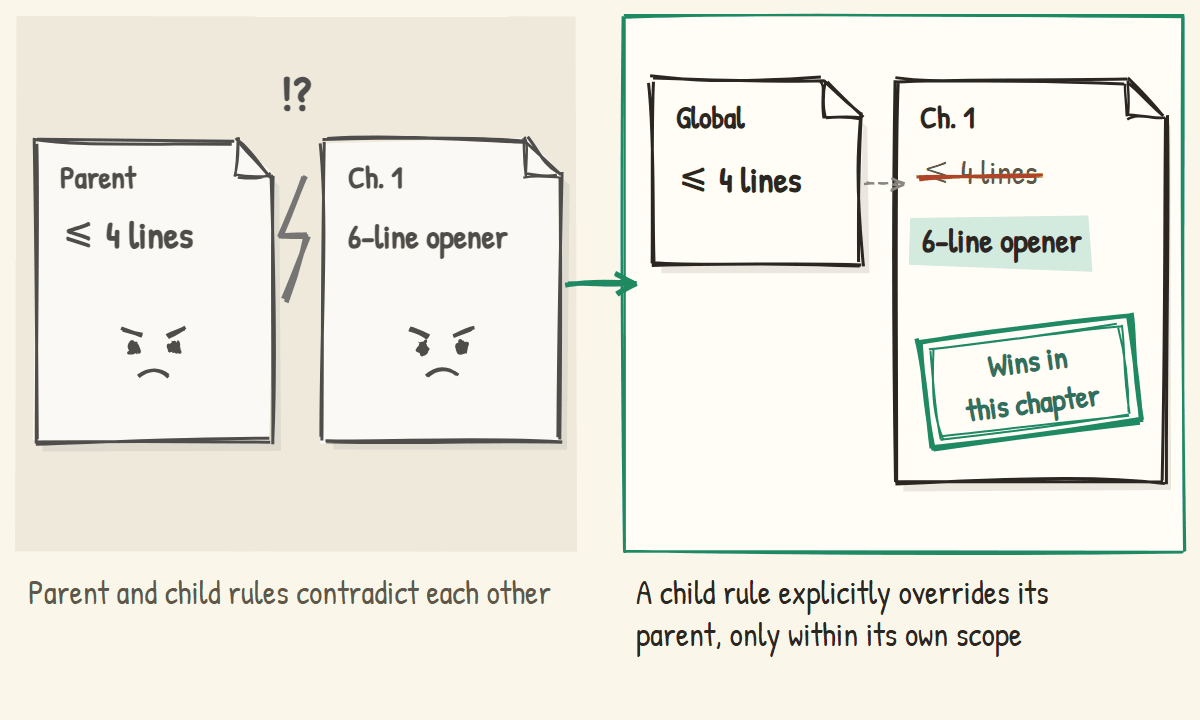
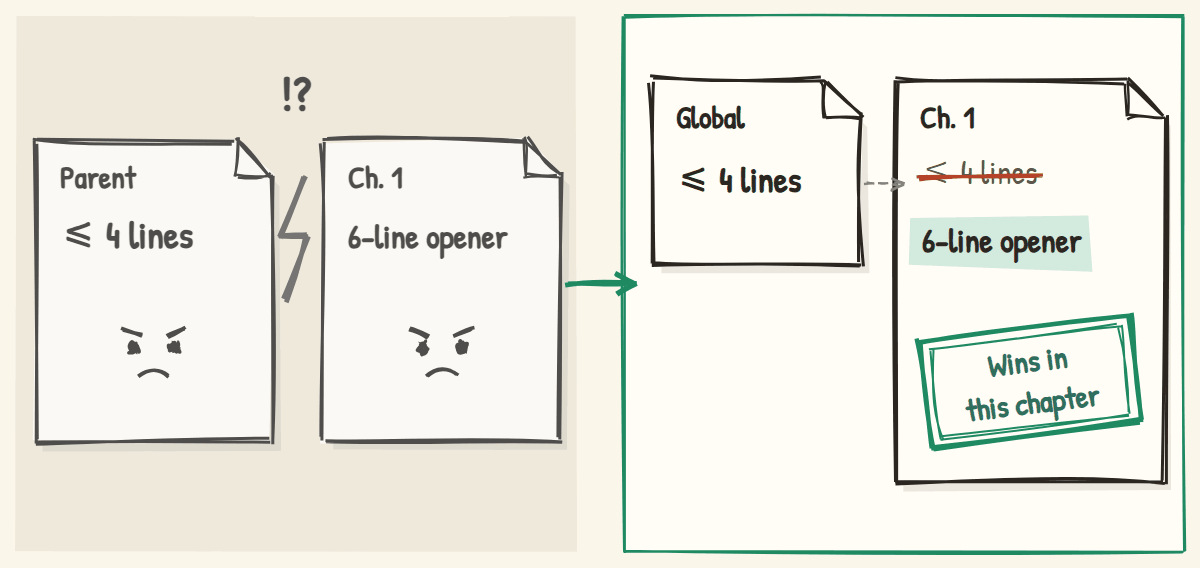
对比图去掉图内小字，说明改成 README 正文放在图下

diff --git a/README.en.md b/README.en.md
@@ -24,24 +24,22 @@ The author audited their own course project after a few months of work: 21 rule 
 
 ## What it does for you
 
-Each picture: the problem on the left, how ReqTree solves it on the right.
-
 <table>
 <tr>
-<td width="50%"><img src="docs/images/en/use-1-change-tracking.png" alt="Requirements changed so often you lost track → see the whole picture, every change logged and undoable"></td>
-<td width="50%"><img src="docs/images/en/use-2-one-place.png" alt="Rules scattered in four places → each rule has one place"></td>
+<td width="50%" valign="top"><img src="docs/images/en/use-1-change-tracking.png" alt="Requirements changed so often — what does the project look like now? → One tree shows it all: how far each part is, which rules are current; every change is logged and undoable"><br><sub>Problem</sub><br>Requirements changed so often — what does the project look like now?<br><sub>ReqTree</sub><br><b>One tree shows it all: how far each part is, which rules are current; every change is logged and undoable</b></td>
+<td width="50%" valign="top"><img src="docs/images/en/use-2-one-place.png" alt="The same rule lives in four places. Which one counts? → Every rule lives in one file, in exactly one place"><br><sub>Problem</sub><br>The same rule lives in four places. Which one counts?<br><sub>ReqTree</sub><br><b>Every rule lives in one file, in exactly one place</b></td>
 </tr>
 <tr>
-<td width="50%"><img src="docs/images/en/use-3-rewrite-not-append.png" alt="Similar rules pile up → the recorder rewrites the original"></td>
-<td width="50%"><img src="docs/images/en/use-4-survive-compaction.png" alt="Compaction makes the AI forget → native rules survive it"></td>
+<td width="50%" valign="top"><img src="docs/images/en/use-3-rewrite-not-append.png" alt="The same rule gets added again and again → The recorder rewrites the original instead of adding; undo in one click"><br><sub>Problem</sub><br>The same rule gets added again and again<br><sub>ReqTree</sub><br><b>The recorder rewrites the original instead of adding; undo in one click</b></td>
+<td width="50%" valign="top"><img src="docs/images/en/use-4-survive-compaction.png" alt="Long chats and compaction make the AI forget the rules → Rules use Claude Code's native mechanism and survive compaction and subagents"><br><sub>Problem</sub><br>Long chats and compaction make the AI forget the rules<br><sub>ReqTree</sub><br><b>Rules use Claude Code's native mechanism and survive compaction and subagents</b></td>
 </tr>
 <tr>
-<td width="50%"><img src="docs/images/en/use-5-load-on-demand.png" alt="Every rule stuffed into context → only the rules for the file being edited"></td>
-<td width="50%"><img src="docs/images/en/use-6-override.png" alt="Parent and child rules conflict → the child overrides within its scope"></td>
+<td width="50%" valign="top"><img src="docs/images/en/use-5-load-on-demand.png" alt="Every rule gets stuffed into the context → Only the rules for the file being edited come along"><br><sub>Problem</sub><br>Every rule gets stuffed into the context<br><sub>ReqTree</sub><br><b>Only the rules for the file being edited come along</b></td>
+<td width="50%" valign="top"><img src="docs/images/en/use-6-override.png" alt="Parent and child rules contradict each other → A child requirement overrides its parent, only within its own scope"><br><sub>Problem</sub><br>Parent and child rules contradict each other<br><sub>ReqTree</sub><br><b>A child requirement overrides its parent, only within its own scope</b></td>
 </tr>
 <tr>
-<td width="50%"><img src="docs/images/en/use-7-live-status.png" alt="What is the AI working on? → shown live"></td>
-<td width="50%"><img src="docs/images/en/use-8-click-not-markdown.png" alt="No hand-editing Markdown → click everything in the panel"></td>
+<td width="50%" valign="top"><img src="docs/images/en/use-7-live-status.png" alt="What is the AI working on right now? → The sidebar and map show it live"><br><sub>Problem</sub><br>What is the AI working on right now?<br><sub>ReqTree</sub><br><b>The sidebar and map show it live</b></td>
+<td width="50%" valign="top"><img src="docs/images/en/use-8-click-not-markdown.png" alt="Hand-editing Markdown → Add rules, change status, undo — all by clicking"><br><sub>Problem</sub><br>Hand-editing Markdown<br><sub>ReqTree</sub><br><b>Add rules, change status, undo — all by clicking</b></td>
 </tr>
 </table>
 

diff --git a/README.md b/README.md
@@ -22,24 +22,22 @@
 
 ## 它有什么用
 
-每张图左边是麻烦，右边是需求树怎么解决。
-
 <table>
 <tr>
-<td width="50%"><img src="docs/images/use-1-change-tracking.png" alt="需求改了又改，项目什么样说不清 → 一棵树看全貌，改动有记录能撤销"></td>
-<td width="50%"><img src="docs/images/use-2-one-place.png" alt="规则散在四处 → 每条规则只有一个位置"></td>
+<td width="50%" valign="top"><img src="docs/images/use-1-change-tracking.png" alt="需求改了又改，现在到底是什么样？ → 一棵树看全貌：做到哪一步、哪版规则在生效；每次改动都有记录，能撤销"><br><sub>麻烦</sub><br>需求改了又改，现在到底是什么样？<br><sub>需求树</sub><br><b>一棵树看全貌：做到哪一步、哪版规则在生效；每次改动都有记录，能撤销</b></td>
+<td width="50%" valign="top"><img src="docs/images/use-2-one-place.png" alt="规则散在四处，不知道以哪份为准 → 所有规则写在一个文件里，每条只有一个位置"><br><sub>麻烦</sub><br>规则散在四处，不知道以哪份为准<br><sub>需求树</sub><br><b>所有规则写在一个文件里，每条只有一个位置</b></td>
 </tr>
 <tr>
-<td width="50%"><img src="docs/images/use-3-rewrite-not-append.png" alt="相似规则越堆越多 → 记录员改写原条"></td>
-<td width="50%"><img src="docs/images/use-4-survive-compaction.png" alt="上下文一压缩就忘规则 → 原生规则压缩后照样生效"></td>
+<td width="50%" valign="top"><img src="docs/images/use-3-rewrite-not-append.png" alt="相似的规则加了一遍又一遍 → 记录员改写原条，不新增；记错了一键撤销"><br><sub>麻烦</sub><br>相似的规则加了一遍又一遍<br><sub>需求树</sub><br><b>记录员改写原条，不新增；记错了一键撤销</b></td>
+<td width="50%" valign="top"><img src="docs/images/use-4-survive-compaction.png" alt="对话一长、上下文一压缩，AI 就忘了规则 → 规则交给 Claude Code 原生机制，压缩后、子 agent 里照样生效"><br><sub>麻烦</sub><br>对话一长、上下文一压缩，AI 就忘了规则<br><sub>需求树</sub><br><b>规则交给 Claude Code 原生机制，压缩后、子 agent 里照样生效</b></td>
 </tr>
 <tr>
-<td width="50%"><img src="docs/images/use-5-load-on-demand.png" alt="所有规则塞进上下文 → 改到哪个文件才带哪条规则"></td>
-<td width="50%"><img src="docs/images/use-6-override.png" alt="母规则子规则打架 → 子需求在自己范围里覆盖"></td>
+<td width="50%" valign="top"><img src="docs/images/use-5-load-on-demand.png" alt="所有规则一股脑塞进上下文 → 改到哪个文件，才带上那个需求的规则"><br><sub>麻烦</sub><br>所有规则一股脑塞进上下文<br><sub>需求树</sub><br><b>改到哪个文件，才带上那个需求的规则</b></td>
+<td width="50%" valign="top"><img src="docs/images/use-6-override.png" alt="母规则和子规则打架 → 子需求明确覆盖母规则，只在自己的范围里生效"><br><sub>麻烦</sub><br>母规则和子规则打架<br><sub>需求树</sub><br><b>子需求明确覆盖母规则，只在自己的范围里生效</b></td>
 </tr>
 <tr>
-<td width="50%"><img src="docs/images/use-7-live-status.png" alt="不知道 AI 在做什么 → 实时显示 AI 正在改哪个需求"></td>
-<td width="50%"><img src="docs/images/use-8-click-not-markdown.png" alt="不想手写 Markdown → 全部能在面板上点"></td>
+<td width="50%" valign="top"><img src="docs/images/use-7-live-status.png" alt="不知道 AI 正在做哪个需求 → 侧栏和导图实时显示 AI 正在改哪个需求"><br><sub>麻烦</sub><br>不知道 AI 正在做哪个需求<br><sub>需求树</sub><br><b>侧栏和导图实时显示 AI 正在改哪个需求</b></td>
+<td width="50%" valign="top"><img src="docs/images/use-8-click-not-markdown.png" alt="不想手写 Markdown → 加规则、改状态、撤销，全部能在面板上点"><br><sub>麻烦</sub><br>不想手写 Markdown<br><sub>需求树</sub><br><b>加规则、改状态、撤销，全部能在面板上点</b></td>
 </tr>
 </table>
 
